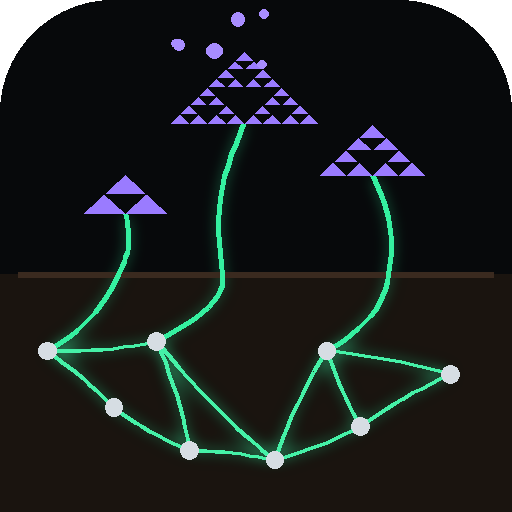
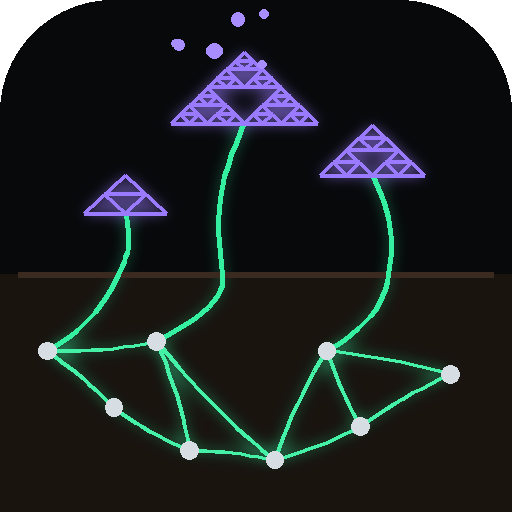
Draw the caps as line work too
You were right. They were the only solid shapes in a mark otherwise made
of glowing lines, and outlining them makes the whole thing one idiom:
phosphor for the network, violet for what it grew, nothing filled.

It also disposes of a wrinkle the filled version carried. The gasket was
a triangle with its holes painted in the background colour, which is
only correct while the thing behind them is flat — true above the soil,
and an accident waiting for the day the mark is placed on anything else.
Strokes are correct over anything, and both generated files now contain
no background-coloured fills at all.

The reservation was small sizes, and it was real: as line work the inner
triangles are strokes about a pixel and a half wide on a 48-point icon,
and two levels of subdivision silt up into a smudge. The icon variant
subdivides once now — one inverted triangle still says "gasket" and
still resolves. Checked at 48, 72 and 96, which are the sizes Android
actually asks for.

Changed region(s): [[0.3125, 0.0938, 0.625, 0.2812], [0.625, 0.2188, 0.8438, 0.375], [0.1562, 0.3438, 0.3438, 0.4375]]

diff --git a/assets/logo.py b/assets/logo.py
@@ -340,7 +340,12 @@ def _geometry(simple=False):
         # The tallest gets three levels, the others two and one. Depth costs
         # nothing to draw and everything to read: a small cap subdivided three
         # times is a smudge, and all three at one depth looks printed.
-        depth = 2 if simple else (3, 2, 1)[min(k, 2)]
+        # One subdivision at icon sizes. Two survived while the cap was a
+        # filled shape with holes punched in it; as line work the inner
+        # triangles are strokes a pixel and a half wide at 48 points, and they
+        # silt up into a smudge. One inverted triangle still says "gasket" and
+        # still resolves.
+        depth = 1 if simple else (3, 2, 1)[min(k, 2)]
         caps.append(cap_triangles(stem_axis(x0, sh, lean, sway, base), w, h, base, depth))
         foot = (stem_axis(x0, sh, lean, sway, HORIZON), HORIZON)
         stems.append(stem_line(x0, sh, lean, sway, base - h * 0.02,
@@ -400,6 +405,10 @@ def render_png(path, size, background=True):
     width = max(1, int(size * (0.022 if big else 0.045)))
     for pts in links + stems:
         gd.line([P(*p) for p in pts], fill=PHOSPHOR + (155,), width=width, joint="curve")
+    for k in range(len(caps)):
+        for tri in [caps[k][0]] + caps[k][1]:
+            gd.line([P(*q) for q in tri + [tri[0]]],
+                    fill=CAPS[k % len(CAPS)] + (150,), width=width, joint="curve")
     glow = glow.filter(ImageFilter.GaussianBlur(size * 0.016))
     img.alpha_composite(glow)
 
@@ -413,6 +422,10 @@ def render_png(path, size, background=True):
            fill=EARTH_LINE, width=max(1, int(size * 0.012)))
 
     stem_w = max(2, int(size * (0.011 if big else 0.026)))
+    # The gasket's inner triangles are small, so its stroke is thinner than a
+    # stem's — but never below two pixels, under which a line stops being a
+    # line and becomes a grey suggestion.
+    cap_w = max(2, int(size * (0.008 if big else 0.020)))
     for pts in stems:
         d.line([P(*p) for p in pts], fill=PHOSPHOR + (255,),
                width=stem_w, joint="curve")
@@ -426,12 +439,12 @@ def render_png(path, size, background=True):
 
     # The caps last. Tallest drawn last so it sits in front.
     for k in ([0] if len(caps) == 1 else [1, 2, 0]):
-        # The cap: one triangle with a gasket punched out of it. The holes are
-        # filled with the background rather than a darker tint, so the figure
-        # is the same subtraction the site draws and not a decoration on top.
-        poly(caps[k][0], CAPS[k % len(CAPS)])
-        for hole in caps[k][1]:
-            poly(hole, VOID)
+        # The cap: the gasket as line work, in the same idiom as everything
+        # else here. It was filled, which made it the only solid shape in a
+        # mark otherwise made of glowing lines.
+        for tri in [caps[k][0]] + caps[k][1]:
+            d.line([P(*q) for q in tri + [tri[0]]],
+                   fill=CAPS[k % len(CAPS)] + (255,), width=cap_w, joint="curve")
 
     if big:
         for x, y, rr in spores():
@@ -500,15 +513,19 @@ def render_vector(path):
         parts.append(f'    <path android:pathData="{stem}" '
                      f'android:strokeColor="{hexa(PHOSPHOR)}" android:strokeWidth="1.3" '
                      f'android:strokeLineCap="round"/>')
-        parts.append(f'    <path android:pathData="{_poly(caps[k][0])}" '
-                     f'android:fillColor="{hexa(CAPS[k % len(CAPS)])}"/>')
-        # The gasket, punched out in the background colour. A vector drawable
-        # has no even-odd subtraction worth relying on across API levels, so
-        # the holes are drawn as shapes in the colour behind them — which is
-        # flat here, above the soil, and therefore exact.
-        for hole in caps[k][1]:
-            parts.append(f'    <path android:pathData="{_poly(hole)}" '
-                         f'android:fillColor="{hexa(VOID)}"/>')
+        # The gasket as line work, which also disposes of a wrinkle the filled
+        # version had: the holes were painted in the background colour, so they
+        # were only correct while the thing behind them was flat. Strokes are
+        # correct over anything.
+        cap = _lines([[*tri, tri[0]] for tri in [caps[k][0]] + caps[k][1]])
+        parts.append(f'    <path android:pathData="{cap}" '
+                     f'android:strokeColor="{hexa(CAPS[k % len(CAPS)])}" '
+                     f'android:strokeWidth="2.2" android:strokeAlpha="0.35" '
+                     f'android:strokeLineCap="round" android:strokeLineJoin="round"/>')
+        parts.append(f'    <path android:pathData="{cap}" '
+                     f'android:strokeColor="{hexa(CAPS[k % len(CAPS)])}" '
+                     f'android:strokeWidth="0.9" android:strokeLineCap="round" '
+                     f'android:strokeLineJoin="round"/>')
 
     parts.append("")
     parts.append("    <!-- spores: how a mesh gains a member -->")
@@ -555,9 +572,12 @@ def render_svg(path):
                      f'stroke-linecap="round"/></g>')
         parts.append(f'<path d="{sx.escape(stem)}" stroke="{hexa(PHOSPHOR)}" '
                      f'stroke-width="1.2" fill="none" stroke-linecap="round"/>')
-        parts.append(f'<path d="{sx.escape(_poly(caps[k][0]))}" fill="{hexa(CAPS[k % len(CAPS)])}"/>')
-        for hole in caps[k][1]:
-            parts.append(f'<path d="{sx.escape(_poly(hole))}" fill="{hexa(VOID)}"/>')
+        cap = _lines([[*tri, tri[0]] for tri in [caps[k][0]] + caps[k][1]])
+        parts.append(f'<g filter="url(#g)" opacity="0.8"><path d="{sx.escape(cap)}" '
+                     f'stroke="{hexa(CAPS[k % len(CAPS)])}" stroke-width="2.2" fill="none" '
+                     f'stroke-linejoin="round"/></g>')
+        parts.append(f'<path d="{sx.escape(cap)}" stroke="{hexa(CAPS[k % len(CAPS)])}" '
+                     f'stroke-width="0.9" fill="none" stroke-linejoin="round"/>')
 
     for x, y, r in spores():
         parts.append(f'<circle cx="{x:.2f}" cy="{y:.2f}" r="{r:.2f}" '
